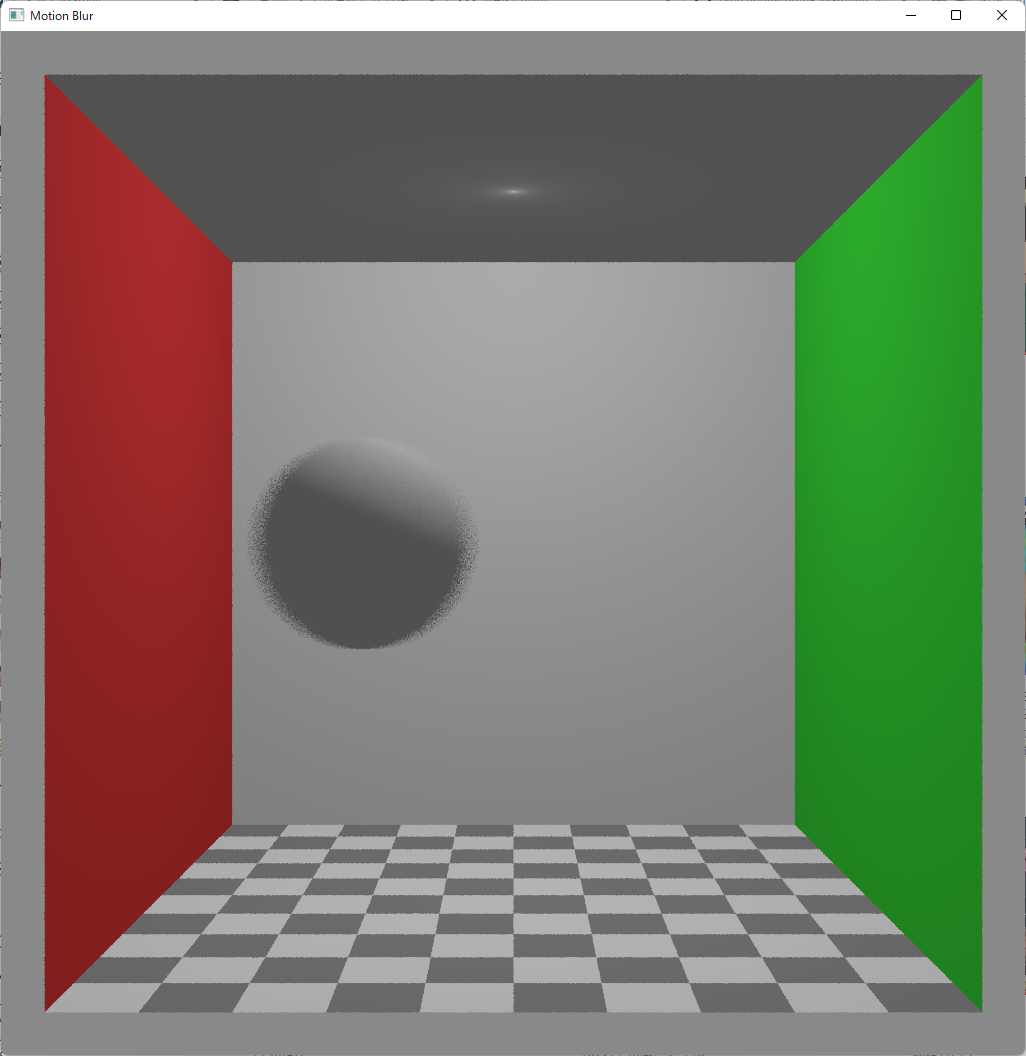
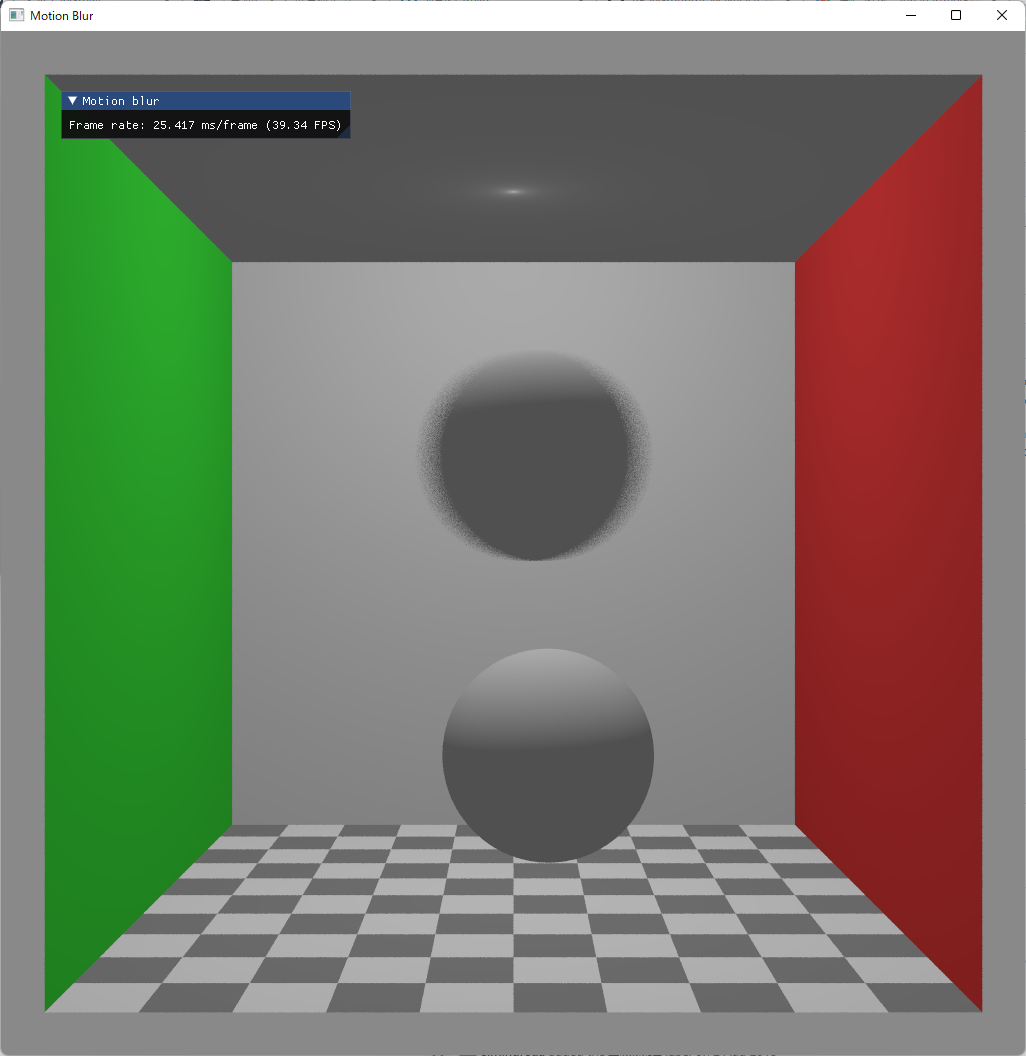
Fix char* pointer error in module create

diff --git a/examples/motion_blur/app.cpp b/examples/motion_blur/app.cpp
@@ -21,6 +21,8 @@ void App::initResultBufferOnDevice()
 // ----------------------------------------------------------------
 void App::setup()
 {
+    pgSetFrameRate(60);
+
     // OptixDeviceContextの生成
     stream = 0;
     CUDA_CHECK(cudaFree(0));
@@ -61,7 +63,7 @@ void App::setup()
     params.width = result_bitmap.width();
     params.height = result_bitmap.height();
     params.subframe_index = 0;
-    params.samples_per_launch = 4;
+    params.samples_per_launch = 16;
     params.light.pos = make_float3(0.0f, 9.9f, 0.0f);
     params.result_buffer = reinterpret_cast<uchar4*>(result_bitmap.devicePtr());
     params.accum_buffer = reinterpret_cast<float4*>(accum_bitmap.devicePtr());
@@ -121,7 +123,7 @@ void App::setup()
     uint32_t instance_id = 0;
 
     // ShapeInstanceは1つのShapeのみ保持する前提でShapeInstanceをセットアップするLambda関数
-    auto setupShapeInstance = [&](ProgramGroup hitgroup_prg, ShapeInstance& instance, shared_ptr<Texture> texture)
+    auto setupShapeInstance = [&](ProgramGroup hitgroup_prg, ShapeInstance& instance, shared_ptr<Texture> texture, bool is_update=false)
     {
         auto shape = instance.shapes()[0];
 
@@ -145,6 +147,8 @@ void App::setup()
         sbt.addHitgroupRecord(record);
 
         instance.allowCompaction();
+        if (is_update)
+            instance.allowUpdate();
         instance.setSBTOffset(sbt_offset);
         instance.setId(instance_id);
         instance.buildAccel(context, stream);
@@ -160,14 +164,13 @@ void App::setup()
     auto sphere_prg = pipeline.createHitgroupProgram(context, hitgroups_module, "__closesthit__sphere", "__intersection__sphere");
     auto mesh_prg = pipeline.createHitgroupProgram(context, hitgroups_module, "__closesthit__mesh");
 
+    // Cornel box用のテクスチャを用意
+    auto floor_checker = make_shared<CheckerTexture>(make_float3(0.9f), make_float3(0.3f), 10, checker_prg_id);
+    auto red = make_shared<ConstantTexture>(make_float3(0.8f, 0.05f, 0.05f), constant_prg_id);
+    auto green = make_shared<ConstantTexture>(make_float3(0.05f, 0.8f, 0.05f), constant_prg_id);
+    auto white = make_shared<ConstantTexture>(make_float3(0.8f), constant_prg_id);
     // Cornel box
     {
-        // Cornel box用のテクスチャを用意
-        auto floor_checker = make_shared<CheckerTexture>(make_float3(0.9f), make_float3(0.3f), 10, checker_prg_id);
-        auto red = make_shared<ConstantTexture>(make_float3(0.8f, 0.05f, 0.05f), constant_prg_id);
-        auto green = make_shared<ConstantTexture>(make_float3(0.05f, 0.8f, 0.05f), constant_prg_id);
-        auto white = make_shared<ConstantTexture>(make_float3(0.8f), constant_prg_id);
-
         ShapeInstance floor {
             ShapeType::Custom, 
             make_shared<Plane>(make_float2(-10.0f, -10.0f), make_float2(10.0f, 10.0f)),
@@ -208,12 +211,9 @@ void App::setup()
         setupShapeInstance(plane_prg, back, white);
     }
 
-    // Sphere
+    // Sphere (with motion blur)
     {
-        sphere_pos = sphere_prev_pos = make_float3(0.0f);
-
-        auto sphere_texture = make_shared<ConstantTexture>(make_float3(0.8f), constant_prg_id);
-        sphere_texture->copyToDevice();
+        sphere_pos = sphere_prev_pos = make_float3(0.0f, 2.5f, 0.0f);
 
         auto sphere = make_shared<Sphere>();
         sphere->setSbtIndex(sbt_idx);
@@ -226,8 +226,8 @@ void App::setup()
             .shape_data = sphere->devicePtr(),
             .tex_data = 
             {
-                .data = sphere_texture->devicePtr(), 
-                .prg_id = sphere_texture->programId()
+                .data = white->devicePtr(), 
+                .prg_id = white->programId()
             }
         };
 
@@ -261,6 +261,16 @@ void App::setup()
 
         instance_accel.addInstance(instance);
     }
+
+    // Sphere (without motion blur)
+    {
+        sphere2 = ShapeInstance{
+            ShapeType::Custom,
+            make_shared<Sphere>(),
+            Matrix4f::translate(sphere_pos - make_float3(0.0f, 8.5f, 0.0f)) * Matrix4f::scale(3.0f)
+        };
+        setupShapeInstance(sphere_prg, sphere2, white, true);
+    }
     
     // Shader Binding Table のデータをGPU上に生成
     sbt.createOnDevice();
@@ -290,7 +300,7 @@ void App::update()
 {
     initResultBufferOnDevice();
 
-    float time = pgGetElapsedTime<float>();
+    float time = pgGetElapsedTimef();
     if (is_move) {
         float x = fmodf(time, 1.0f);
         sphere_prev_pos = sphere_pos;
@@ -301,6 +311,8 @@ void App::update()
 
         matrix_transform.setMatrixMotionTransform(begin_matrix, end_matrix);
         matrix_transform.copyToDevice();
+
+        sphere2.setTransform(Matrix4f::translate(sphere_pos - make_float3(0.0f, 8.5f, 0.0f)) * Matrix4f::scale(3.0f));
     }
 
     instance_accel.update(context, stream);
@@ -338,6 +350,8 @@ void App::draw()
     ImGui::End();
     ImGui::Render();
     result_bitmap.draw(0, 0);
+
+    ImGui_ImplOpenGL3_RenderDrawData(ImGui::GetDrawData());
 }
 
 // ----------------------------------------------------------------

diff --git a/prayground/app/app_runner.cpp b/prayground/app/app_runner.cpp
@@ -6,7 +6,9 @@ namespace prayground {
 namespace { // nonamed-namespace
     std::unique_ptr<AppRunner> current_runner;
     int32_t current_frame{ 0 };
-    std::chrono::high_resolution_clock::time_point start_time;
+    float start_time;
+    float frame_rate = 60.0f;
+    bool is_fix_fps = false;
 } // ::nonamed-namespace
 
 float pgGetMouseX()
@@ -61,17 +63,19 @@ int32_t pgGetFrame()
 
 float pgGetFrameRate()
 {
-    return static_cast<float>(pgGetFrame()) / pgGetElapsedTime<float>();
+    return static_cast<float>(pgGetFrame()) / pgGetElapsedTimef();
 }
 
-template <typename T>
-T pgGetElapsedTime()
+void pgSetFrameRate(const float fps)
 {
-    std::chrono::duration<T> elapsed = std::chrono::high_resolution_clock::now() - start_time;
-    return elapsed.count();
+    is_fix_fps = true;
+    frame_rate = fps;
 }
-template float pgGetElapsedTime<float>();
-template double pgGetElapsedTime<double>();
+
+float pgGetElapsedTimef()
+{
+    return glfwGetTime() - start_time;
+}
 
 void pgSetWindowName(const std::string& name)
 {
@@ -118,12 +122,13 @@ void AppRunner::run() const
 
     m_window->setVisible(true);
 
-    start_time = std::chrono::high_resolution_clock::now();
+    start_time = glfwGetTime();
     loop();
 }
 
 void AppRunner::loop() const 
 {
+    float lasttime = glfwGetTime();
     while (!m_window->shouldClose())
     {
         m_window->update();
@@ -132,6 +137,11 @@ void AppRunner::loop() const
         m_window->swap();
 
         current_frame++;
+        while (glfwGetTime() < lasttime + 1.0f / frame_rate && is_fix_fps)
+        {
+
+        }
+        lasttime += 1.0f / frame_rate;
     }
     close();
 }

diff --git a/prayground/optix/module.cpp b/prayground/optix/module.cpp
@@ -72,9 +72,9 @@ namespace {
 
         std::vector<const char*> options;
 
+        std::string app_dir;
         if (pgAppDir().string() != "") {
-            std::string app_dir = std::string("-I") + pgAppDir().string();
-            std::cout << app_dir << ' ' << app_dir.c_str() << std::endl;
+            app_dir = std::string("-I") + pgAppDir().string();
             options.push_back(app_dir.c_str());
         }
 
@@ -100,9 +100,6 @@ namespace {
         // Collect NVRTC options
         const char* compiler_options[] = { CUDA_NVRTC_OPTIONS };
         std::copy(std::begin(compiler_options), std::end(compiler_options), std::back_inserter(options));
-
-        for (const char* option : options)
-            std::cout << option << std::endl;
 
         // JIT compile CU to PTX
         const nvrtcResult compileRes = nvrtcCompileProgram(prog, (int)options.size(), options.data());

diff --git a/prayground/core/file_util.cpp b/prayground/core/file_util.cpp
@@ -13,14 +13,14 @@ namespace {
 
 } // ::nonamed-namespace
 
-// -------------------------------------------------------------------------------s
+// -------------------------------------------------------------------------------
 std::optional<fs::path> findDataPath( const fs::path& relative_path )
 {
     std::array<std::string, 4> parent_dirs = 
     {
         pgAppDir().string(), 
         pathJoin(pgAppDir(), "data").string(), 
-        "", // @note これで絶対パスにも対応できる？
+        "",
         pgRootDir().string(),
     };
 

diff --git a/prayground/core/file_util.h b/prayground/core/file_util.h
@@ -21,8 +21,6 @@ inline std::filesystem::path pathJoin(
     return path;
 }
 
-// OptiX-Raytracer の ホームディレクトリと アプリケーションもしくはOptiX-Raytracer 以下の 
-// data/ ディレクトリ以下を探索し、ファイルが見つかった場合は絶対パスを返し、見つからなかった場合は、無効値を返します。
 std::optional<std::filesystem::path> findDataPath( const std::filesystem::path& relative_path );
 
 std::filesystem::path pgRootDir();

diff --git a/prayground/app/app_runner.h b/prayground/app/app_runner.h
@@ -16,7 +16,8 @@ int32_t pgGetWidth();
 int32_t pgGetHeight();
 int32_t pgGetFrame();
 float   pgGetFrameRate();
-template <typename T> T pgGetElapsedTime();
+void    pgSetFrameRate(const float fps);
+float   pgGetElapsedTimef();
 std::shared_ptr<Window> pgGetCurrentWindow();
 void    pgSetWindowName(const std::string& name);
 void    pgRunApp(const std::shared_ptr<BaseApp>& app, const std::shared_ptr<Window>& window);

diff --git a/examples/dynamic_update/app.cpp b/examples/dynamic_update/app.cpp
@@ -267,7 +267,7 @@ void App::update()
 {
     handleCameraUpdate();
 
-    float time = pgGetElapsedTime<float>();
+    float time = pgGetElapsedTimef();
 
     sphere_pos = 5.0f * make_float3(sinf(time) * sinf(time / 3.0f), cosf(time), sinf(time) * cosf(time / 3.0f));
     bunny_pos = 5.0f * make_float3(sinf(-time) * sinf(time / 3.0f), cosf(-time), sinf(-time) * cosf(time / 3.0f));

diff --git a/examples/single_gas/app.cpp b/examples/single_gas/app.cpp
@@ -128,7 +128,7 @@ void App::setup()
 // ----------------------------------------------------------------
 void App::update()
 {
-    float time = pgGetElapsedTime<float>();
+    float time = pgGetElapsedTimef();
     checker_texture->setColor1(make_float3(abs(sin(time))));
     checker_texture->copyToDevice();
 

diff --git a/examples/motion_blur/main.cpp b/examples/motion_blur/main.cpp
@@ -4,7 +4,7 @@ int main()
 {
     pgSetAppDir(APP_DIR);
     
-    auto window = make_shared<Window>("Motion Blur", 1080, 1080);
+    auto window = make_shared<Window>("Motion Blur", 1024, 1024);
     auto app = make_shared<App>();
 
     pgRunApp(app, window);

diff --git a/prayground/core/camera.cpp b/prayground/core/camera.cpp
@@ -15,7 +15,6 @@ void Camera::disableTracking()
     TODO_MESSAGE();
 }
 
-/// @todo FoxAxisへの対応
 void Camera::UVWFrame(float3& U, float3& V, float3& W) const
 {
     W = m_lookat - m_origin;

diff --git a/examples/motion_blur/app.h b/examples/motion_blur/app.h
@@ -41,6 +41,7 @@ private:
     float3 sphere_pos, sphere_prev_pos;
 
     Transform matrix_transform;
+    ShapeInstance sphere2;
 
     bool is_move = true;
 };
